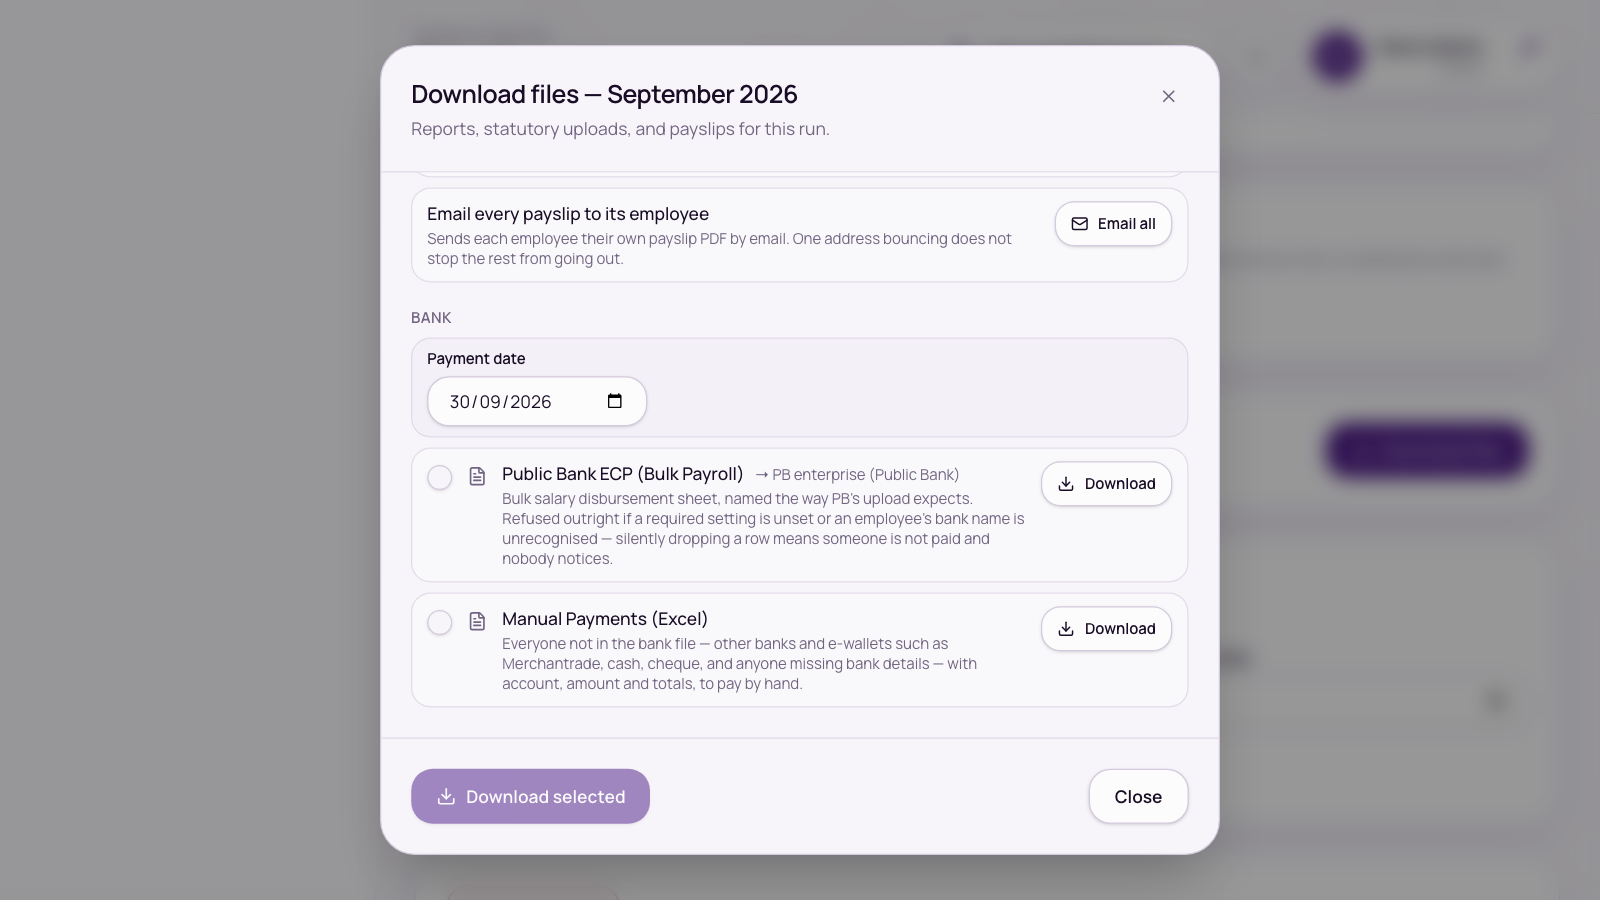
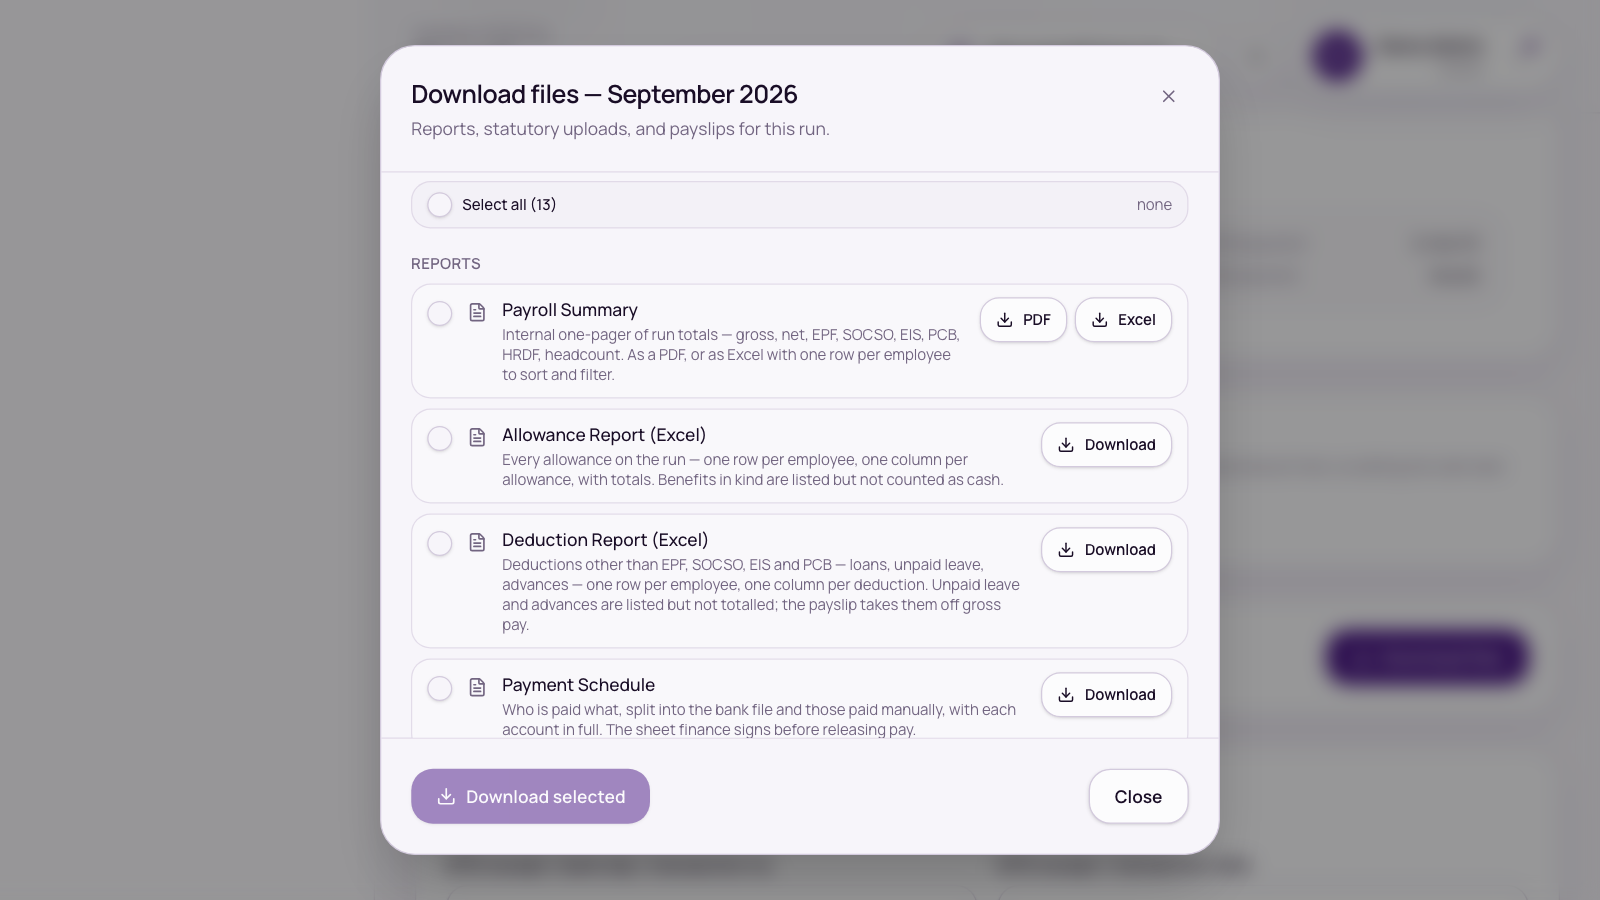
docs: what's new, API docs and user guides for allowance/deduction reports, work location and the PB bank file fix

diff --git a/api-docs/payroll-runs.html b/api-docs/payroll-runs.html
@@ -1232,13 +1232,49 @@ curl "https://&lt;api-host&gt;/payroll/runs/run_123/documents/summary?format=xls
   -H "Authorization: Bearer wp_live_xxx" -o tp1-claims.pdf</code></pre>
       </section>
 
+      <section class="endpoint" id="doc-allowances">
+        <div class="endpoint-head">
+          <span class="method get">GET</span>
+          <span class="path">/payroll/runs/{id}/documents/allowances</span>
+          <span class="tag scope">payroll:read</span>
+        </div>
+        <p>Who received which allowance on this run. Every allowance line on the payslips is included.</p>
+        <h3>Response <code>200</code></h3>
+        <p><code>Content-Type</code> is an Excel workbook (<code>.xlsx</code>), filename <code>Allowance_Report_{month-year}.xlsx</code>. One row per employee who has at least one such item, one column per payslip label, and a total column. Benefits in kind are listed (header ends with "(BIK)") but left out of the total because they are not paid in cash. Claim reimbursements are not allowances and are not included.</p>
+        <h3>Errors</h3>
+        <ul>
+          <li><code>404</code> — no such run.</li>
+          <li><code>409</code> <code>{ "error": "…" }</code> — the run is not approved yet (<code>"This run has not been approved yet, so its figures can still change. Submit and approve it before producing files."</code>); the run was imported from a previous payroll system; or there is nothing to report (<code>"No allowances on this run."</code>).</li>
+        </ul>
+<pre><code>curl https://&lt;api-host&gt;/payroll/runs/run_123/documents/allowances \
+  -H "Authorization: Bearer wp_live_xxx" -o allowances.xlsx</code></pre>
+      </section>
+
+      <section class="endpoint" id="doc-deductions">
+        <div class="endpoint-head">
+          <span class="method get">GET</span>
+          <span class="path">/payroll/runs/{id}/documents/deductions</span>
+          <span class="tag scope">payroll:read</span>
+        </div>
+        <p>Which non-statutory deductions came off whom. EPF, SOCSO, EIS and PCB are excluded (they are in the statutory files), as are additional PCB, CP38 and tax-relief or self-paid items that deduct nothing.</p>
+        <h3>Response <code>200</code></h3>
+        <p><code>Content-Type</code> is an Excel workbook (<code>.xlsx</code>), filename <code>Deduction_Report_{month-year}.xlsx</code>. One row per employee who has at least one such item, one column per payslip label, and a total column. Items that come off gross pay (unpaid leave, advances, salary adjustments) are listed with a "from gross" note in the header but left out of the total, matching the payslip.</p>
+        <h3>Errors</h3>
+        <ul>
+          <li><code>404</code> — no such run.</li>
+          <li><code>409</code> <code>{ "error": "…" }</code> — the run is not approved yet (<code>"This run has not been approved yet, so its figures can still change. Submit and approve it before producing files."</code>); the run was imported from a previous payroll system; or there is nothing to report (<code>"No deductions on this run other than EPF, SOCSO, EIS and PCB."</code>).</li>
+        </ul>
+<pre><code>curl https://&lt;api-host&gt;/payroll/runs/run_123/documents/deductions \
+  -H "Authorization: Bearer wp_live_xxx" -o deductions.xlsx</code></pre>
+      </section>
+
       <section class="endpoint" id="doc-bank-file">
         <div class="endpoint-head">
           <span class="method get">GET</span>
           <span class="path">/payroll/runs/{id}/documents/bank-file</span>
           <span class="tag scope">payroll:read</span>
         </div>
-        <p>The bank disbursement file, in the layout of the company's own payroll bank (set in Payroll Settings → Company Info). It lists only employees paid by <code>BANK_TRANSFER</code> with a bank account number and net pay above 0. Everyone else owed pay is on <a href="#doc-manual-payments">manual-payments</a>.</p>
+        <p>The bank disbursement file, in the layout of the company's own payroll bank (set in Payroll Settings → Company Info). It lists only employees paid by <code>BANK_TRANSFER</code> with a bank account number and net pay above 0. Employees on <code>OTHER_TRANSFER</code> (other bank / e-wallet), <code>CASH</code> or <code>CHEQUE</code> are left out, so an overseas bank or e-wallet name never blocks the file; they are on <a href="#doc-manual-payments">manual-payments</a>.</p>
         <h3>Query parameters</h3>
         <div class="table-wrap">
           <table>
@@ -1255,7 +1291,7 @@ curl "https://&lt;api-host&gt;/payroll/runs/run_123/documents/summary?format=xls
         <h3>Errors</h3>
         <ul>
           <li><code>404</code> — no such run.</li>
-          <li><code>409</code> <code>{ "error": "…" }</code> — run not submitted/imported; no payroll bank configured or it is set to "Other"; an unsupported bank; or Hong Leong with no <code>channel</code>.</li>
+          <li><code>409</code> <code>{ "error": "…" }</code> — run not submitted/imported; no payroll bank configured or it is set to "Other"; an unsupported bank; or Hong Leong with no <code>channel</code>. For Public Bank (and the other formats sharing its payee rules) also: a <code>BANK_TRANSFER</code> employee whose <code>bankName</code> is not a recognised Malaysian bank (the message names them), and <code>"Nothing to put in the bank file — nobody on this run is paid by bank transfer to a Malaysian account. Everyone owed pay is on the Manual payments sheet."</code></li>
         </ul>
 <pre><code>curl "https://&lt;api-host&gt;/payroll/runs/run_123/documents/bank-file?paymentDate=2026-01-31" \
   -H "Authorization: Bearer wp_live_xxx" -o bank-file</code></pre>
@@ -1339,7 +1375,7 @@ curl "https://&lt;api-host&gt;/payroll/runs/run_123/documents/summary?format=xls
           <span class="tag scope">payroll:read</span>
         </div>
         <p>
-          Every document this run produces, zipped: the bank file, the manual-payments sheet, the summary (as both PDF and Excel), all payslips, and the
+          Every document this run produces, zipped: the bank file, the manual-payments sheet, the summary (as both PDF and Excel), the allowance and deduction reports, all payslips, and the
           three statutory files. One request instead of six. A document that cannot be rendered (e.g. no
           payroll bank configured) is left out of the zip rather than failing the whole bundle.
         </p>
@@ -1359,7 +1395,7 @@ curl "https://&lt;api-host&gt;/payroll/runs/run_123/documents/summary?format=xls
             <thead><tr><th>Header</th><th>Meaning</th></tr></thead>
             <tbody>
               <tr><td><code>X-Bundle-File-Count</code></td><td>How many documents made it into the zip.</td></tr>
-              <tr><td><code>X-Bundle-Skipped</code></td><td>Comma-separated keys of documents left out, from: <code>bank-file</code>, <code>manual-payments</code>, <code>summary</code>, <code>summary-xlsx</code>, <code>payslips</code>, <code>epf</code>, <code>socso-eis</code>, <code>socso-eis-skbbk</code>, <code>pcb</code>. Omitted entirely when nothing was skipped.</td></tr>
+              <tr><td><code>X-Bundle-Skipped</code></td><td>Comma-separated keys of documents left out, from: <code>bank-file</code>, <code>manual-payments</code>, <code>summary</code>, <code>summary-xlsx</code>, <code>allowances</code>, <code>deductions</code>, <code>payslips</code>, <code>epf</code>, <code>socso-eis</code>, <code>socso-eis-skbbk</code>, <code>pcb</code>. Omitted entirely when nothing was skipped.</td></tr>
             </tbody>
           </table>
         </div>

diff --git a/user-guide/altomatehr-admin-guide.html b/user-guide/altomatehr-admin-guide.html
@@ -7,7 +7,7 @@
   Bookmark: this page is correct as of this commit on main. The next update
   re-checks every user-visible change after it — from any branch — then
   moves it forward.
-  user-guide-covered-up-to: 92017bc
+  user-guide-covered-up-to: e583a98
 -->
 <html lang="en">
 <head>
@@ -726,7 +726,7 @@
         <tr><td><strong>Statutory</strong></td><td>EPF, SOCSO / EIS / SKBBK, income tax, the
           <strong>Special tax rate (15%)</strong>, <strong>Bank / payout</strong>, and the
           <a href="#lhdn-forms">LHDN forms</a> for that person</td></tr>
-        <tr><td><strong>Company</strong></td><td>Employee number, job title, role, policy, department, and which projects,
+        <tr><td><strong>Company</strong></td><td>Employee number, job title, role, policy, department, <strong>Work location</strong> (next to Department; HR letters use it for their Work location), and which projects,
           teams and approval level they sit in</td></tr>
         <tr><td><strong>Documents</strong></td><td>ID scans, contracts, certificates — and, below them, the
           <strong>Letters</strong> card with the <a href="#letters">HR letters</a> kept for this person</td></tr>
@@ -1206,7 +1206,7 @@
     <div class="tbl-scroll"><table>
       <thead><tr><th>Group</th><th>Files</th><th>Where it goes</th></tr></thead>
       <tbody>
-        <tr><td>Reports</td><td>Payroll Summary (as a PDF or as Excel), Payment Schedule (who is paid what, split into the bank file and those paid manually), PCB Calculation Details</td><td>Your records / approver</td></tr>
+        <tr><td>Reports</td><td>Payroll Summary (as a PDF or as Excel), Payment Schedule (who is paid what, split into the bank file and those paid manually), PCB Calculation Details, Allowance Report (Excel), Deduction Report (Excel)</td><td>Your records / approver</td></tr>
         <tr><td></td><td>AB Pay timesheet (Excel) — only if your company is connected to ABPay</td><td>The ABPay app, and your records</td></tr>
         <tr><td>Statutory</td><td>EPF Contribution CSV</td><td>KWSP i-Akaun</td></tr>
         <tr><td></td><td>SOCSO + EIS Contribution TXT (v1)</td><td>PERKESO ASSIST — for months before June 2026, or while PERKESO still accepts either layout (June to September 2026)</td></tr>
@@ -1228,6 +1228,9 @@
     <p>Set the <strong>payment date</strong> before downloading. The file is refused — with a message saying why — if a
       bank setting is missing or an employee's bank isn't recognised. If your payroll bank is “Other”, no bank file
       is produced.</p>
+    <p>Whatever your bank, only employees paid by <strong>Bank transfer</strong> are in the file. The Public Bank file
+      leaves out anyone whose payment method is Other bank / e-wallet, Cash or Cheque. Pay them from
+      <strong>Manual Payments</strong>.</p>
     <p><strong>Manual Payments (Excel)</strong> is always offered. It lists everyone the bank file doesn't pay —
       other banks and e-wallets such as Merchantrade, cash, cheque, and anyone missing bank details — with account,
       amount and totals, so you can pay them yourself.</p>
@@ -1236,6 +1239,16 @@
       The PDF is the one-page summary of the run's totals. The Excel file has the same figures with one row per
       employee, so you can sort and filter, plus the totals block and each employee's itemised pay on their own sheets.
       If you tick the row and press <span class="btn-name">Download selected</span>, you get both files.</p>
+    <h3>Allowance and Deduction reports (Excel)</h3>
+    <p>The Reports group also has <strong>Allowance Report (Excel)</strong> and <strong>Deduction Report (Excel)</strong>.
+      Each has one row per employee and one column per item, with a totals row at the bottom.</p>
+    <ul>
+      <li><strong>Allowance Report</strong> lists every allowance on the run. Benefits in kind are listed but not
+        counted as cash in the totals.</li>
+      <li><strong>Deduction Report</strong> lists deductions other than EPF, SOCSO, EIS and PCB, such as loans, unpaid
+        leave and advances. Unpaid leave and advances are listed but not added into the total, because the payslip
+        takes them off gross pay instead.</li>
+    </ul>
     <h3>AB Pay timesheet (Excel)</h3>
     <p>If your company is connected to ABPay, the Reports group also has <strong>AB Pay timesheet (Excel)</strong>.
       It writes the run out in the layout of the AB Pay timesheet — each employee's basic pay, unpaid leave, allowances,
@@ -1256,7 +1269,7 @@
     <figure class="shot" data-place="Files">
       <div class="shot-grid" data-orient="screen">
         <div class="shot-item">
-          <img src="shots/admin/payroll-downloads.png" alt="The Download files dialog: statutory uploads (EPF, both SOCSO + EIS files, PCB) and the TP1 / TP3 Claims List" loading="lazy">
+          <img src="shots/admin/payroll-downloads.png" alt="The Download files dialog, Reports group: Payroll Summary, Allowance Report (Excel), Deduction Report (Excel) and Payment Schedule" loading="lazy">
         </div>
       </div>
       <p class="shot-cap shot-cap-main">Downloading the month's files</p>

diff --git a/frontend/src/features/whats-new/lib/entries.ts b/frontend/src/features/whats-new/lib/entries.ts
@@ -8,7 +8,7 @@
 //
 // Bookmark: the last commit on main these notes already cover. The next update
 // writes up everything after it — from any branch — then moves it forward.
-// whats-new-covered-up-to: 92017bc
+// whats-new-covered-up-to: e583a98
 
 export type WhatsNewEntry = {
   /** Release day, yyyy-MM-dd (Malaysia time). Also what "unread" compares. */
@@ -30,10 +30,13 @@ export const WHATS_NEW: WhatsNewEntry[] = [
       "Admins: Employee profile → Employment: new Probation (months) and Confirmation date fields, printed on offer and confirmation letters.",
       "Payroll → Run downloads: Payroll Summary can now be downloaded as Excel as well as PDF, with one row per employee to sort and filter, plus the totals and each person's itemised pay.",
       "Payroll → Run downloads: new AB Pay timesheet (Excel) for approved runs, for companies connected to ABPay. Each employee's pay is in AB Pay's timesheet layout, ready for ABPay to import, with a Statutory sheet (EPF, SOCSO, EIS, PCB, net pay) and notes on how Total Gross is worked out.",
+      "Payroll → Run downloads: Allowance and Deduction reports (Excel). One row per employee, one column per item, with totals. Deductions exclude EPF, SOCSO, EIS, PCB and other statutory payments; benefits in kind and from-gross items (unpaid leave, advances, salary adjustments) are listed but kept out of the cash total. Also included in the download-all zip.",
+      "Employee profile → Company tab: Work location field (next to Department) — feeds the HR letter Work location placeholder.",
     ],
     fixed: [
       "Xero: reloading the connection page after a successful connect no longer shows 'Xero didn't finish connecting'. A failed reconnection attempt while still connected shows a calm 'nothing changed — still connected' note instead of an error.",
       "Attendance (Today, Employees tab) and Leave balances/bulk export now list staff only — the Owner and admins no longer appear.",
+      "Payroll → Bank files: the Public Bank payroll file no longer refuses to download because of employees paid by Other bank / e-wallet (Merchantrade, Finexus, etc.), cash or cheque. They're left out of it and paid from the Manual payments sheet.",
     ],
   },
   {

diff --git a/api-docs/index.html b/api-docs/index.html
@@ -25,7 +25,7 @@
   Bookmark: the pages that exist are correct as of this commit on main. The
   next update re-checks every controller/DTO changed after it — from any
   branch — then moves it forward.
-  api-docs-covered-up-to: 92017bc
+  api-docs-covered-up-to: e583a98
 -->
 <div class="layout">
   <nav class="sidebar" aria-label="Documentation">

diff --git a/user-guide/altomatehr-employee-guide.html b/user-guide/altomatehr-employee-guide.html
@@ -7,7 +7,7 @@
   Bookmark: this page is correct as of this commit on main. The next update
   re-checks every user-visible change after it — from any branch — then
   moves it forward.
-  user-guide-covered-up-to: 92017bc
+  user-guide-covered-up-to: e583a98
 -->
 <html lang="en">
 <head>
